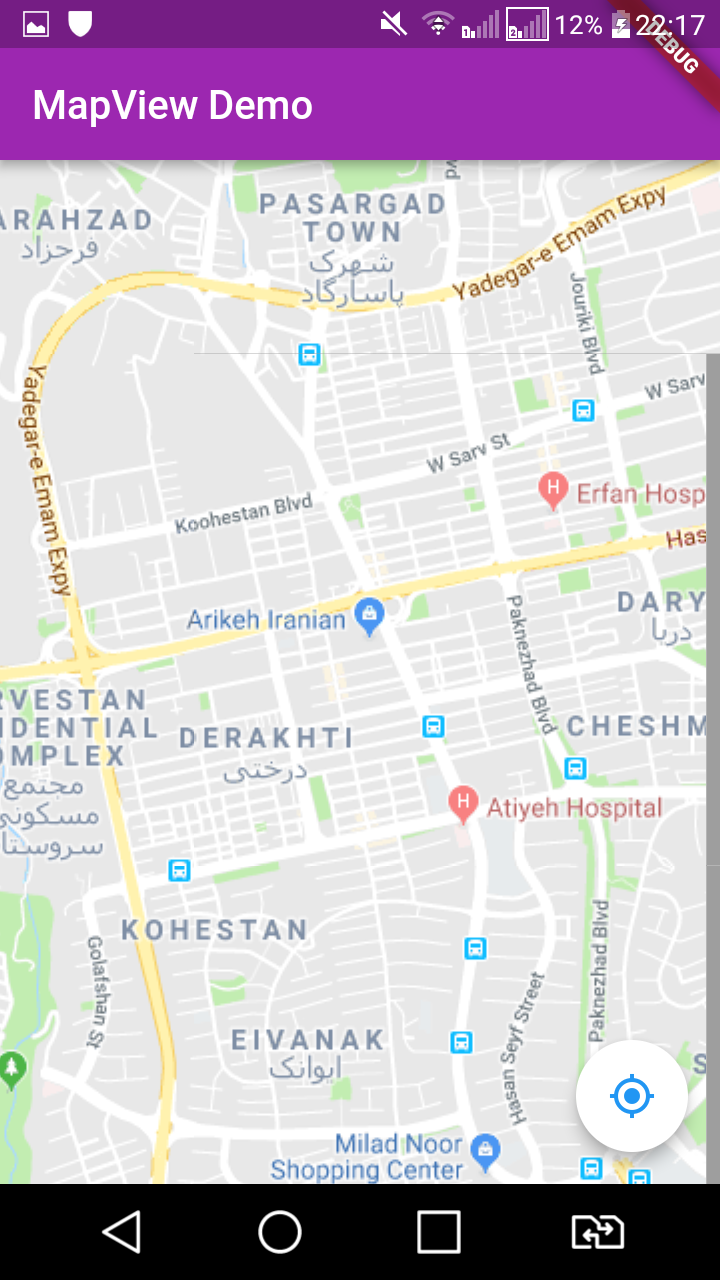
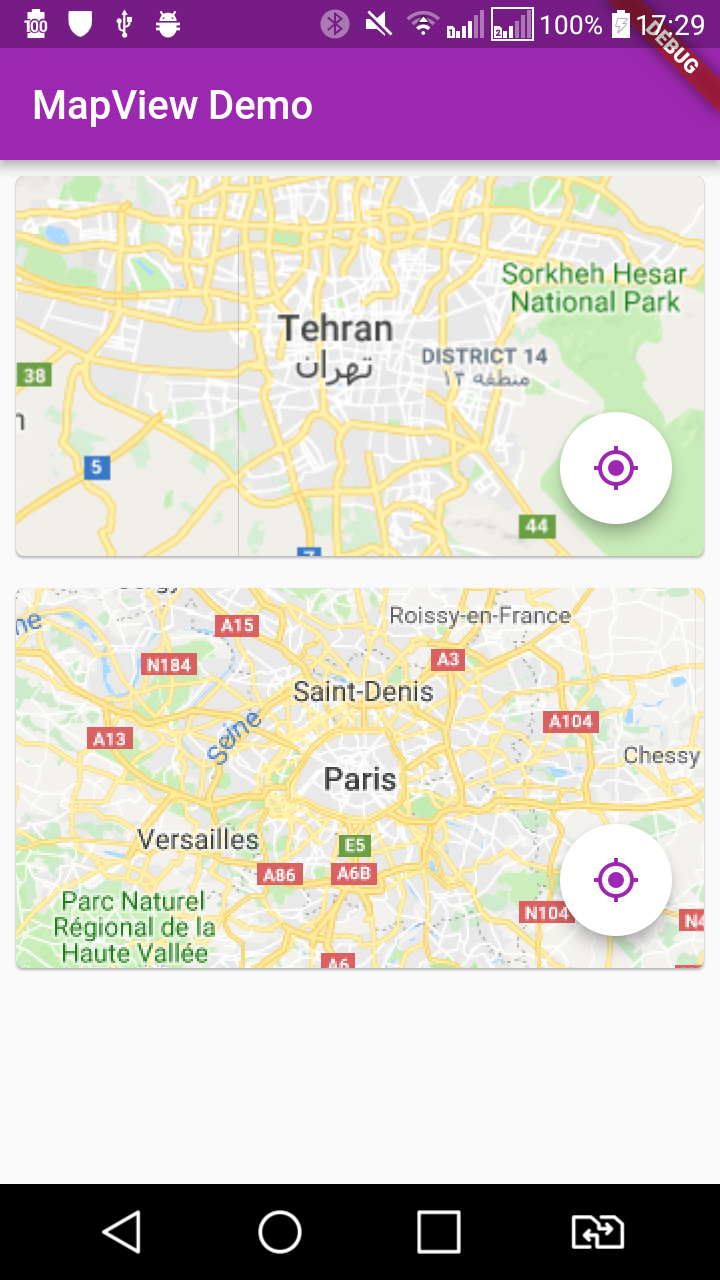
Updated the screenshot and example.

diff --git a/example/main.dart b/example/main.dart
@@ -9,7 +9,9 @@ class MyApp extends StatelessWidget {
     final inline0 = new Card(
         child: new Stack(
       children: [
-        new MapView(),
+        new MapView(
+            initialLocation: const LatLong(35.68, 51.41),
+            inititialZoom: 9.0),
         new Align(
             alignment: Alignment.bottomRight,
             child: new Padding(
@@ -24,7 +26,9 @@ class MyApp extends StatelessWidget {
     final inline1 = new Card(
         child: new Stack(
       children: [
-        new MapView(),
+        new MapView(
+            initialLocation: const LatLong(48.8566, 2.3522),
+            inititialZoom: 9.0),
         new Align(
             alignment: Alignment.bottomRight,
             child: new Padding(
@@ -47,11 +51,13 @@ class MyApp extends StatelessWidget {
             ),
             body: new Column(children: [
               new Padding(
-                  padding: const EdgeInsets.all(8.0),
-                  child: new Expanded(child: inline0)),
+                  padding: const EdgeInsets.all(4.0),
+                  child:
+                      new AspectRatio(child: inline0, aspectRatio: 16.0 / 9.0)),
               new Padding(
-                  padding: const EdgeInsets.all(8.0),
-                  child: new Expanded(child: inline1)),
+                  padding: const EdgeInsets.all(4.0),
+                  child:
+                      new AspectRatio(child: inline1, aspectRatio: 16.0 / 9.0)),
             ])));
   }
 }
